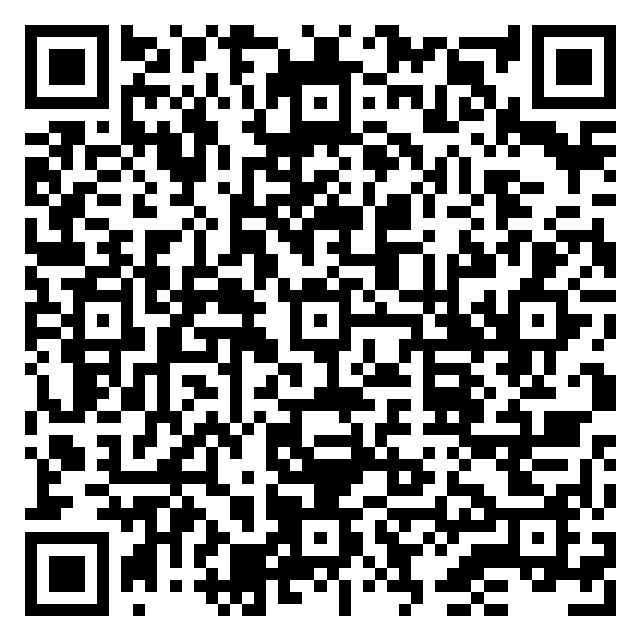
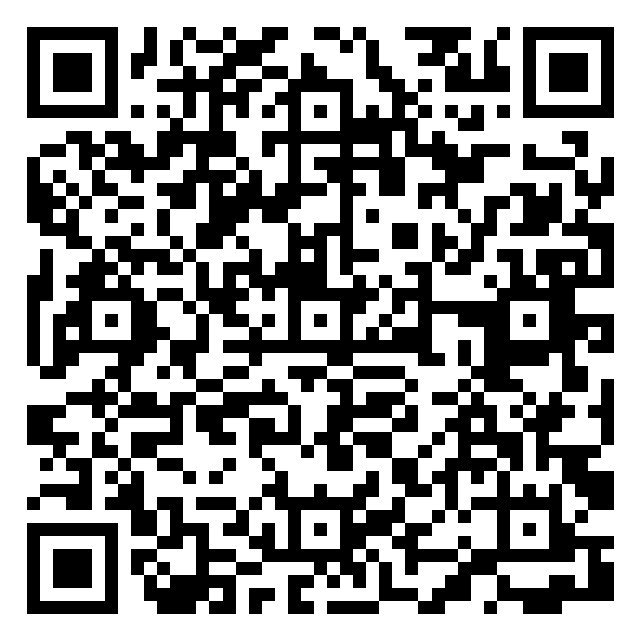
Use separate ea_meeting_attendance table for Monday EA meeting QR.

diff --git a/frontend/src/pages/site/QrAttendance.jsx b/frontend/src/pages/site/QrAttendance.jsx
@@ -12,7 +12,12 @@ import {
 import "./QrAttendance.css";
 
 const POPUP_MS = 2600;
-export const DESK_QR_TOKEN = "DIP-DESK-ATTENDANCE";
+/** Monday EA meeting desk QR (not clock-in). */
+export const EA_MEETING_QR_TOKEN = "DIP-EA-MEETING";
+/** @deprecated old token — still accepted so existing printed QR keeps working */
+export const DESK_QR_TOKEN = EA_MEETING_QR_TOKEN;
+const EA_QR_TOKENS = new Set(["DIP-EA-MEETING", "DIP-DESK-ATTENDANCE"]);
+const EA_TABLE = "ea_meeting_attendance";
 
 function todayIST() {
   return new Date().toLocaleDateString("en-CA", { timeZone: "Asia/Kolkata" });
@@ -74,32 +79,40 @@ function isExcelFile(file) {
   );
 }
 
-function isDeskAttendanceQr(raw) {
+function isEaMeetingQr(raw) {
   const text = String(raw || "").trim();
   if (!text) return false;
-  if (text === DESK_QR_TOKEN) return true;
+  if (EA_QR_TOKENS.has(text)) return true;
   try {
     const obj = JSON.parse(text);
-    if (obj && (obj.code === DESK_QR_TOKEN || obj.type === "desk_attendance")) return true;
+    if (
+      obj &&
+      (EA_QR_TOKENS.has(obj.code) ||
+        obj.type === "ea_meeting" ||
+        obj.type === "desk_attendance")
+    ) {
+      return true;
+    }
   } catch {
     /* not json */
   }
   try {
     const url = new URL(text);
-    const code = url.searchParams.get("code") || url.searchParams.get("desk");
-    if (code === DESK_QR_TOKEN) return true;
+    const code = url.searchParams.get("code") || url.searchParams.get("desk") || url.searchParams.get("ea");
+    if (EA_QR_TOKENS.has(code)) return true;
     if (url.pathname.replace(/\/+$/, "") === "/site/qr-scan" && url.searchParams.has("code")) {
-      return url.searchParams.get("code") === DESK_QR_TOKEN;
+      return EA_QR_TOKENS.has(url.searchParams.get("code"));
     }
   } catch {
     /* not a url */
   }
-  return text.includes(DESK_QR_TOKEN);
+  return [...EA_QR_TOKENS].some((t) => text.includes(t));
 }
 
-function hasDeskCodeInUrl() {
+function hasEaCodeInUrl() {
   try {
-    return new URLSearchParams(window.location.search).get("code") === DESK_QR_TOKEN;
+    const code = new URLSearchParams(window.location.search).get("code");
+    return EA_QR_TOKENS.has(code);
   } catch {
     return false;
   }
@@ -177,7 +190,7 @@ async function uploadPlanFile(file, employee, slot) {
   const datePath = buildSiteDatePath(todayIST());
   const userFolder = String(employee.username || "user").replace(/[^\w.\-]+/g, "_");
   const ext = (file.name.split(".").pop() || "bin").toLowerCase().replace(/[^a-z0-9]/g, "") || "bin";
-  const path = `${prefix}/${datePath}/weekly plan/${userFolder}/${slot}.${ext}`;
+  const path = `${prefix}/${datePath}/ea-meeting/${userFolder}/${slot}.${ext}`;
 
   const url = await uploadViaApi({
     path,
@@ -193,7 +206,7 @@ export default function QrAttendance() {
   const { user: authUser, isAuthenticated } = useAuth();
   const user = siteUserFromAuth(authUser);
 
-  const [phase, setPhase] = useState(hasDeskCodeInUrl() ? "loading" : "scan");
+  const [phase, setPhase] = useState(hasEaCodeInUrl() ? "loading" : "scan");
   const [camError, setCamError] = useState("");
   const [busy, setBusy] = useState(false);
   const [message, setMessage] = useState("");
@@ -225,8 +238,10 @@ export default function QrAttendance() {
   }, []);
 
   const markPresent = useCallback(async (employee) => {
+    const bounds = currentWeekBounds();
     const payload = {
-      scan_date: todayIST(),
+      meeting_week_start: bounds.start,
+      meeting_week_end: bounds.end,
       scanned_at: new Date().toISOString(),
       employee_id: employee.id != null ? String(employee.id) : null,
       employee_username: employee.username,
@@ -244,8 +259,8 @@ export default function QrAttendance() {
     };
 
     const { data, error } = await supabase
-      .from("qr_site_attendance")
-      .upsert(payload, { onConflict: "employee_username,scan_date" })
+      .from(EA_TABLE)
+      .upsert(payload, { onConflict: "employee_username,meeting_week_start" })
       .select()
       .single();
 
@@ -259,7 +274,7 @@ export default function QrAttendance() {
     setBusy(true);
     setMessage("");
     try {
-      if (!user) throw new Error("Please log in first, then scan the desk QR.");
+      if (!user) throw new Error("Please log in first, then scan the EA meeting QR.");
       const employee = await fetchLoggedInEmployee(user);
       if (!employee?.username) throw new Error("Could not load your employee details.");
       await stopScanner();
@@ -273,7 +288,7 @@ export default function QrAttendance() {
         window.history.replaceState({}, "", url.pathname + url.search);
       }
     } catch (err) {
-      setMessage(err.message || "Could not mark attendance.");
+      setMessage(err.message || "Could not mark EA meeting attendance.");
       handlingRef.current = false;
       setPhase("scan");
     } finally {
@@ -283,8 +298,8 @@ export default function QrAttendance() {
 
   const handleDecoded = useCallback(
     async (decodedText) => {
-      if (!isDeskAttendanceQr(decodedText)) {
-        setMessage("Please scan the desk attendance QR only.");
+      if (!isEaMeetingQr(decodedText)) {
+        setMessage("Please scan the Monday EA meeting QR only.");
         handlingRef.current = false;
         return;
       }
@@ -295,12 +310,12 @@ export default function QrAttendance() {
 
   useEffect(() => {
     if (isAuthenticated) return;
-    const next = `${window.location.pathname}${window.location.search || `?code=${DESK_QR_TOKEN}`}`;
+    const next = `${window.location.pathname}${window.location.search || `?code=${EA_MEETING_QR_TOKEN}`}`;
     navigate(`/login?next=${encodeURIComponent(next)}`, { replace: true });
   }, [isAuthenticated, navigate]);
 
   useEffect(() => {
-    if (!user || !hasDeskCodeInUrl()) return;
+    if (!user || !hasEaCodeInUrl()) return;
     checkInCurrentUser();
   }, [user, checkInCurrentUser]);
 
@@ -373,10 +388,8 @@ export default function QrAttendance() {
         a2 = await uploadPlanFile(file2, scannedEmployee, "site-engineer");
       }
       const { error } = await supabase
-        .from("qr_site_attendance")
+        .from(EA_TABLE)
         .update({
-          week_start: week.start,
-          week_end: week.end,
           attachment_1_url: a1.url,
           attachment_1_name: a1.name,
           attachment_2_url: a2.url,
@@ -388,7 +401,7 @@ export default function QrAttendance() {
       if (error) throw error;
       setPhase("done");
     } catch (err) {
-      setMessage(err.message || "Could not save weekly plan.");
+      setMessage(err.message || "Could not save EA meeting uploads.");
     } finally {
       setSubmitting(false);
     }
@@ -423,10 +436,15 @@ export default function QrAttendance() {
             <div className="qr-scan-body">
               <div id="qr-reader" className="qr-reader" />
               {(busy || phase === "loading") && (
-                <div className="qr-busy">Marking you present…</div>
+                <div className="qr-busy">Marking EA meeting present…</div>
               )}
               {camError && <div className="qr-note">{camError}</div>}
               {message && <div className="qr-error">{message}</div>}
+              {!busy && phase === "scan" && !camError && (
+                <div className="qr-note">
+                  Monday EA meeting attendance (not clock-in). Scan the desk QR or open the EA link.
+                </div>
+              )}
             </div>
           )}
 
@@ -437,7 +455,7 @@ export default function QrAttendance() {
                 <div>
                   <strong>{scannedEmployee.name}</strong>
                   <span>
-                    {scannedEmployee.role || "—"} · Present for {todayIST()}
+                    {scannedEmployee.role || "—"} · EA meeting present · week {week.start}
                   </span>
                 </div>
               </div>
@@ -445,7 +463,7 @@ export default function QrAttendance() {
               <label className="qr-label">
                 {dualExcel
                   ? "Excel uploads (2 required for Site Engineer)"
-                  : "Site weekly plan"}
+                  : "EA weekly plan"}
                 <span className="qr-week">
                   {week.start} → {week.end}
                 </span>
@@ -461,7 +479,7 @@ export default function QrAttendance() {
                     ? file1.name
                     : dualExcel
                       ? "1. Site Work Excel"
-                      : "Choose weekly plan file"}
+                      : "Choose EA weekly plan file"}
                 </span>
               </label>
               {dualExcel && (
@@ -486,7 +504,7 @@ export default function QrAttendance() {
                     ? "Saving…"
                     : dualExcel
                       ? "Submit Excel uploads"
-                      : "Submit weekly plan"}
+                      : "Submit EA weekly plan"}
                 </button>
               </div>
             </form>
@@ -495,10 +513,11 @@ export default function QrAttendance() {
           {phase === "done" && (
             <div className="qr-done">
               <div className="qr-done-ico">✓</div>
-              <h2>{dualExcel ? "Excel uploads submitted" : "Weekly plan submitted"}</h2>
+              <h2>{dualExcel ? "Excel uploads submitted" : "EA weekly plan submitted"}</h2>
               <p>
-                Attendance and {dualExcel ? "Excel files" : "weekly plan"} for{" "}
-                <strong>{scannedEmployee?.name}</strong> are saved in the QR attendance table only.
+                EA meeting attendance and {dualExcel ? "Excel files" : "weekly plan"} for{" "}
+                <strong>{scannedEmployee?.name}</strong> are saved in the{" "}
+                <strong>ea_meeting_attendance</strong> table only (not clock-in).
               </p>
               <div className="qr-plan-actions">
                 <button type="button" className="qr-btn-primary" onClick={() => navigate("/site")}>
@@ -518,13 +537,13 @@ export default function QrAttendance() {
                 <polyline points="20 6 9 17 4 12" />
               </svg>
             </div>
-            <h2>Marked present</h2>
+            <h2>EA meeting · Present</h2>
             <p className="qr-popup-name">{scannedEmployee.name}</p>
             <p className="qr-popup-meta">
               {scannedEmployee.role || "Employee"}
               {scannedEmployee.department ? ` · ${scannedEmployee.department}` : ""}
             </p>
-            <p className="qr-popup-hint">Opening report submission…</p>
+            <p className="qr-popup-hint">Opening plan upload…</p>
           </div>
         </div>
       )}
